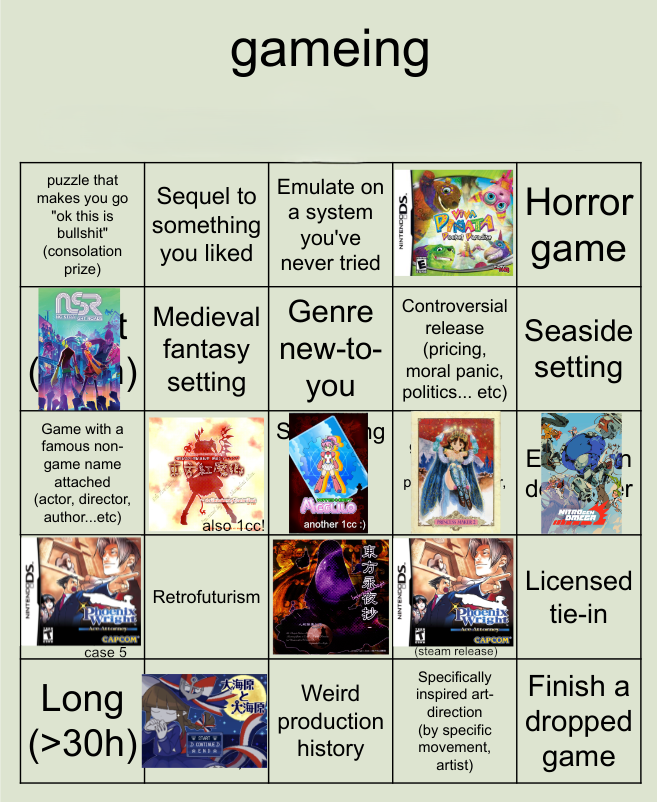
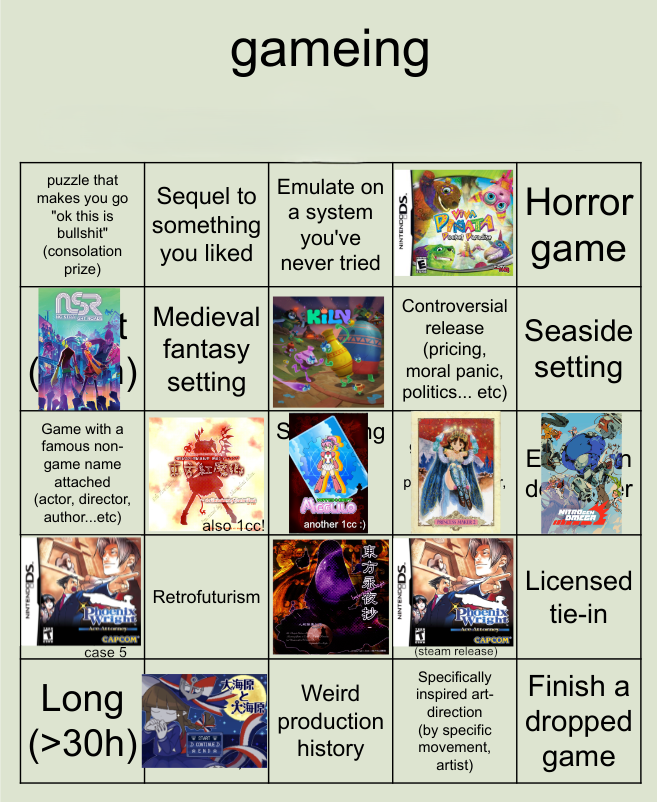
gamebingo update

Changed region(s): [[0.3957, 0.3429, 0.6088, 0.5299]]

diff --git a/gamebingo.html b/gamebingo.html
@@ -47,6 +47,8 @@ Ergo, the Badgersaurus 2026 Game Bingo Board:</p>
 <li><strong>Phoenix Wright: Ace Attorney Case 5 (Rise from the Ashes)</strong>: Feb 17. Was this originally DSIware? It feels like DSIware. Anyway, talk about a whirlwind trial!! This was even better than Case 4 somehow. Ema is literally me irl. I don't like to throw around 'autistic representation' speak but she really comes off as it to me esp. with how she's kinda slow and naive and isn't just 'quirky' without the lame parts. All really good puzzles once again although I did look up the very very last bit of evidence in the very very last trial because if I got it wrong I'd lose and hadn't saved for a while and didn't want to do it over again... though I know I woulda gotten it (w)right if I just took a minute. Idk I feel like I had to confess to that somewhere. anyway I fucking LOVED this game, new alltime favourite for me, I keep thinking about Miles having to take his car in for drycleaning the trunk after this and it makes me laugh. he has to drive around a dealership car for like a week bc of this bullshit could you imagine how upset hed be</li>
 <li><strong>Viva Pinata: Pocket Paradise</strong>: March 14. The original VP is one of my all-time favourite games, despite it's jank, memory leak issues, lack of QOL, etc. I've finished the barely-working PC version three times in the past and was once again wanting to revisit it so I went and picked this DS port up. This might actually be the best version to play nowadays as it works well technically (and can be emulated), the stylus works better for the controls than the controller or keyboard ever did, the isometric view and garden map make micromanagement of fights and visitors easier, all the mechanics are here except for a few mostly tedious ones (no romance mazes, Leafos dialogue, or wildcards, only one color variant per pinata, and only 5 types of flutterscotch(!)). There's also an actual sandbox mode and as far as I can tell all the original game's pinatas (plus 6 extras from TiP) and plants are here, and all the goofy little hidden mechanics (you hatch twingersnaps and get reddhotts the same way, FMV clips for dances plus some extras from the cartoon, all the enyclopedia entries are present, etc). Considering it was meant to be a Pokemon competitor I guess it makes sense the DS version is this good.</li>
 <li><strong>Disgaea 2 update:</strong> I am at the very last boss of this godforsaken (literally, set-in-hell) game and I think I have to do like 10 more hours of grinding fuck me. I'm aware that complaining about grinding in Disgaea is like complaining about McDonalds selling hamburgers but I've literally run out of podcasts to listen to while doing this becuase I somehow slipped through half the game at level like 45 on strategy alone (#progamer). Why is he immune to all elemental damage so I can't use half my team's moves and why is Yukimaru still the worst character in the game at level 60. still one of my favourite things i've ever played though goty 2004 i just want to see adell and rozalin kiss already</li>
+<li><strong>Kiln</strong>: March 20. 'But Piper, this game isn't out yet!' I know! I got to be in the closed beta playtest!! I don't think I'm allowed to say much but, this game is fun, stylish, and has a very cool setting from what we saw, reminds me a lot of Broken Age in more ways than one. I just really hope this isn't an excuse for Microsoft to be like 'your live service game didn't sell a billion copies so we're shutting down your studio' in like two months. Check it out!!! (in a month or so!)<br>
+I'm sticking this in the 'new genre' category as I'm pretty sure I've never played a hack-and-slash/pottery sim/party game hybrid before ;b</li>
 </ul>
 </div>
 </div>
